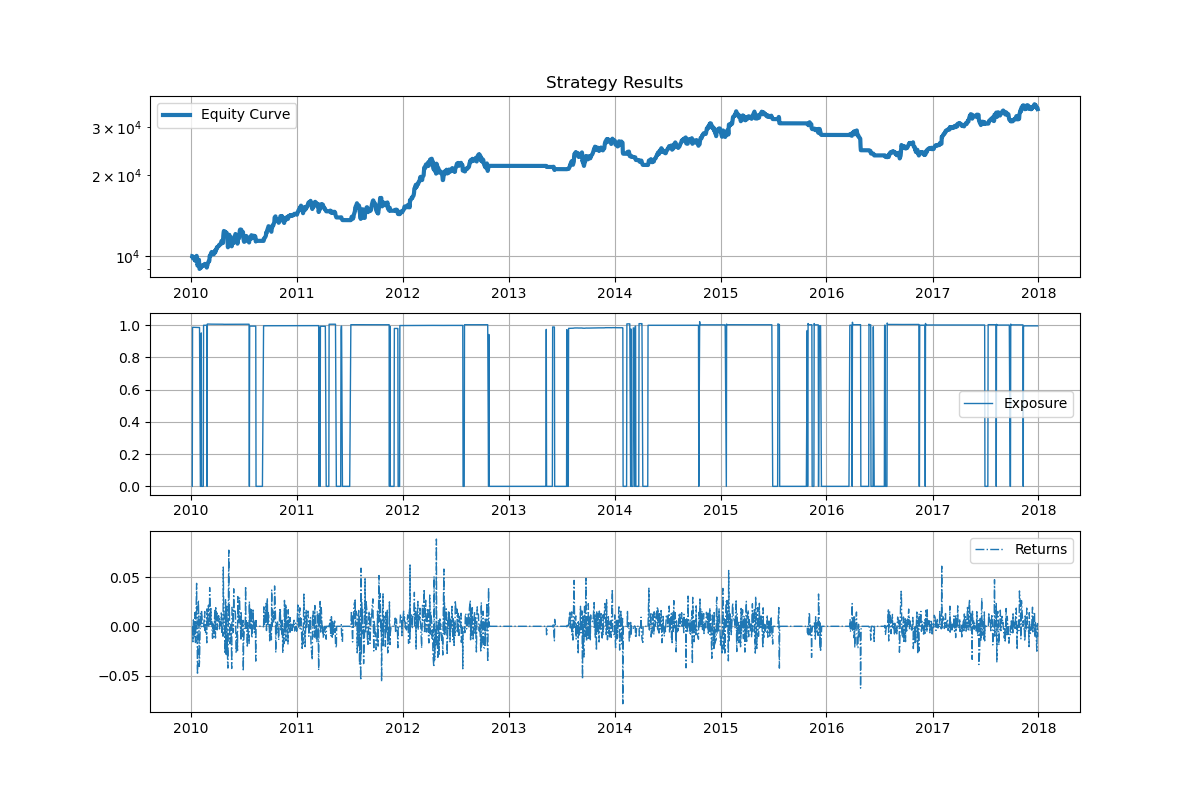
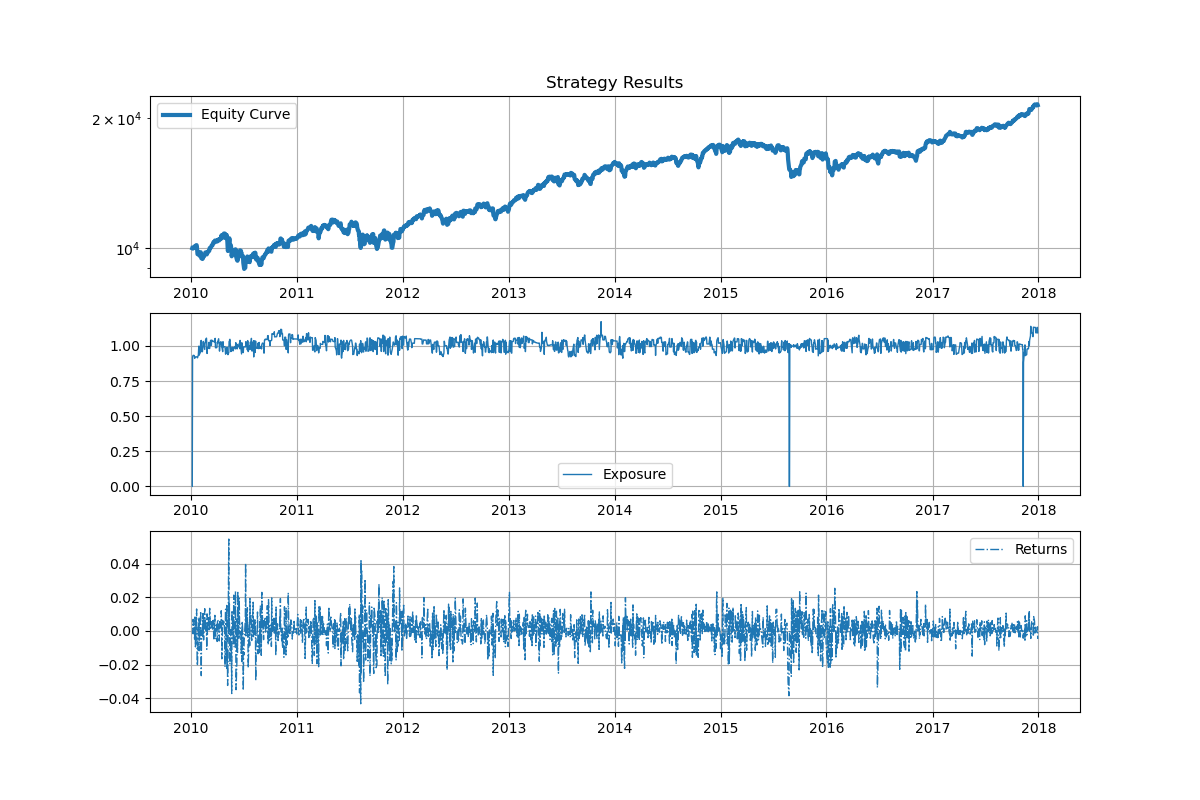
Add Dow Jones trading strategy implementation and results visualization

diff --git a/docs/notebooks/dowjones.py b/docs/notebooks/dowjones.py
@@ -1,0 +1,105 @@
+from zipline.typing import ZiplineContext, BarData
+from zipline import run_algorithm
+from zipline.api import symbol, order_target_percent
+import pandas as pd
+import matplotlib.pyplot as plt
+
+
+def initialize(context: ZiplineContext) -> None:
+    # which stock to trade
+    dji = [
+        "AAPL",
+        "AXP",
+        "BA",
+        "CAT",
+        "CSCO",
+        "CVX",
+        "DD",
+        "DIS",
+        "GE",
+        "GS",
+        "HD",
+        "IBM",
+        "INTC",
+        "JNJ",
+        "JPM",
+        "KO",
+        "MCD",
+        "MMM",
+        "MRK",
+        "MSFT",
+        "NKE",
+        "PFE",
+        "PG",
+        "TRV",
+        "UNH",
+        "UTX",
+        "V",
+        "VZ",
+        "WMT",
+        "XOM",
+    ]
+    context.dji_symbols = [symbol(s) for s in dji]
+    context.index_average_window = 100
+
+
+def handle_data(context: ZiplineContext, data: BarData) -> None:
+    # get history for all the stocks
+    stock_hist: pd.DataFrame = data.history(
+        context.dji_symbols, "close", context.index_average_window, "1d"
+    )
+
+    # make an empty DataFrame to start with
+    stock_analytics = pd.DataFrame()
+
+    # add column for above or below average
+    stock_analytics["above_mean"] = stock_hist.iloc[-1] > stock_hist.mean()
+
+    # set weight for stocks to buy or sell
+    stock_analytics.loc[stock_analytics["above_mean"], "weight"] = 1 / stock_analytics["above_mean"].sum()
+    stock_analytics.loc[~stock_analytics["above_mean"], "weight"] = 0.0
+
+    # Iterate each row and place trades
+    for stock, analytics in stock_analytics.iterrows():
+        if data.can_trade(stock):
+            order_target_percent(stock, analytics["weight"])
+
+
+def analyze(context: ZiplineContext, perf: pd.DataFrame):
+    fig = plt.figure(figsize=(12, 8))
+
+    # First chart
+    ax = fig.add_subplot(311)
+    ax.set_title('Strategy Results')
+    ax.semilogy(perf['portfolio_value'], linestyle='-', label='Equity Curve', linewidth=3.0)
+    ax.legend()
+    ax.grid(True)
+
+    # Second chart
+    ax = fig.add_subplot(312)
+    ax.plot(perf['gross_leverage'], label='Exposure', linestyle='-', linewidth=1.0)
+    ax.legend()
+    ax.grid(True)
+
+    # Third chart
+    ax = fig.add_subplot(313)
+    ax.plot(perf['returns'], label='Returns', linestyle='-.', linewidth=1.0)
+    ax.legend()
+    ax.grid(True)
+    plt.savefig('results.png')
+
+
+if __name__ == '__main__':
+    start = pd.Timestamp('2010-01-01')
+    end = pd.Timestamp('2018-01-01')
+
+    run_algorithm(
+        start=start,
+        end=end,
+        initialize=initialize,
+        analyze=analyze,
+        handle_data=handle_data,
+        capital_base=10000,
+        data_frequency='daily',
+        bundle='quandl'
+    )
